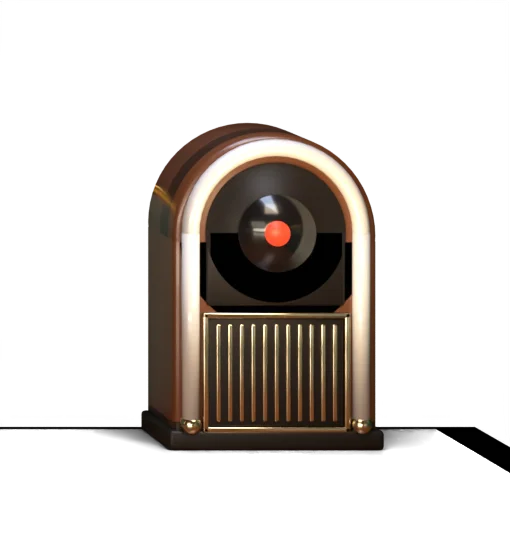
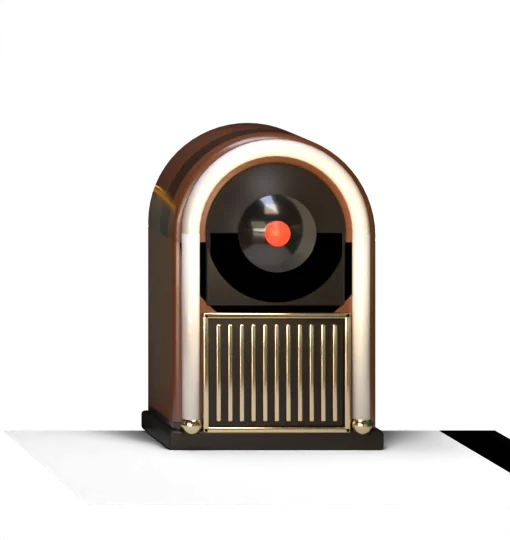
feat(lobby): the bar's real plate, lamp passes, jukebox picture and live glows for the baked look
Also: half the 3D look's draw calls (posters as two draws, the gold frame only
while it shows), shadows that lean from the nearest lit lamp, reflections of
the body only, README, and a look option on the 3D test tools.

diff --git a/lobby/public/baked/room-baked.js b/lobby/public/baked/room-baked.js
@@ -92,6 +92,9 @@ function plateMaterial(plate) {
         vec2 out2 = abs(vUv - 0.5) - 0.5;
         float past = max(out2.x, out2.y);
         sum *= 1.0 - smoothstep(0.0, 0.12, past);
+        // The corners of the room fall away a little, as they do in the hero picture.
+        vec2 c = (uv - vec2(0.5, 0.46)) * vec2(1.0, 1.25);
+        sum *= 1.0 - 0.55 * smoothstep(0.28, 0.75, length(c));
         gl_FragColor = vec4(sum * uExposure, 1.0);
         #include <tonemapping_fragment>
         #include <colorspace_fragment>
@@ -148,14 +151,14 @@ export class RoomBaked extends Room3D {
   /** Once the plate is here: the room's light for the pieces, in place of the 3D look's three plain lights. */
   dressRoom() {
     for (const o of this.scene.children) {
-      if (o.isHemisphereLight) o.intensity = 0.2;
-      else if (o.isDirectionalLight) o.intensity = o.position.y > 8 ? 0 : 0.3; // the overhead lamp goes: each pool has its own now
+      if (o.isHemisphereLight) o.intensity = 0.13;
+      else if (o.isDirectionalLight) o.intensity = o.position.y > 8 ? 0 : 0.2; // the overhead lamp goes: each pool has its own now
     }
     const pmrem = new THREE.PMREMGenerator(this.renderer);
     this.envMap = pmrem.fromEquirectangular(this.plate.env).texture;
     pmrem.dispose();
     this.scene.environment = this.envMap;
-    this.scene.environmentIntensity = 0.4;
+    this.scene.environmentIntensity = 0.3;
   }
 
   build(room) {
@@ -196,8 +199,20 @@ export class RoomBaked extends Room3D {
     if (this.plain) super.doorway(L);
   }
 
+  /** The string of bulbs is in the picture; what is added here is only the soft glow round each, which a camera would see. */
   bulbs() {
-    if (this.plain) super.bulbs();
+    if (this.plain) return super.bulbs();
+    const n = 29;
+    const glows = new THREE.InstancedMesh(new THREE.PlaneGeometry(0.62, 0.62), new THREE.MeshBasicMaterial({ map: this.radial, color: 0xffc27a, transparent: true, opacity: 0.34, blending: THREE.AdditiveBlending, depthWrite: false }), n);
+    const o = new THREE.Object3D();
+    for (let i = 0; i < n; i++) {
+      const t = i / (n - 1);
+      o.position.set((t - 0.5) * (SPACE.w - 0.5), 5.6 + Math.pow(((t * 4) % 1) - 0.5, 2) * 1.25, SPACE.zBack + 0.5);
+      o.updateMatrix();
+      glows.setMatrixAt(i, o.matrix);
+    }
+    glows.renderOrder = -6;
+    this.stuff.add(glows);
   }
 
   /** One game box: its poster in the plate's empty frame, its gold edge, and the light its lamp gives the pieces. */
@@ -221,6 +236,10 @@ export class RoomBaked extends Room3D {
     b.beam.position.set(x, SPACE.lampY / 2, z);
     b.beam.renderOrder = 6;
     this.stuff.add(b.beam);
+    // The glow round a lamp that is on.
+    b.halo = new THREE.Mesh(new THREE.PlaneGeometry(1, 1), new THREE.MeshBasicMaterial({ map: this.radial, color: SKIN.light, transparent: true, opacity: 0, blending: THREE.AdditiveBlending, depthWrite: false }));
+    b.halo.position.set(x, SPACE.lampY + 0.04, z + 0.05);
+    this.stuff.add(b.halo);
 
     // On the wall: the poster as a box in the frame, and the frame's gold face for the box that leads.
     const g = new THREE.Group();
@@ -230,19 +249,27 @@ export class RoomBaked extends Room3D {
     tex.anisotropy = Math.min(8, this.renderer.capabilities.getMaxAnisotropy());
     b.art = new THREE.MeshBasicMaterial({ map: tex });
     b.side = new THREE.MeshBasicMaterial({ color: new THREE.Color(boxSide(box)).multiplyScalar(0.5) });
-    const carton = new THREE.Mesh(new THREE.BoxGeometry(L.bw, L.bh, 0.3), [b.side, b.side, b.side, b.side, b.art, b.side]);
+    // Two draws a poster: the box's sides as one mesh, and its printed front as another.
+    const carton = new THREE.Mesh(new THREE.BoxGeometry(L.bw, L.bh, 0.3), b.side);
     carton.position.z = 0.2;
-    g.add(carton);
+    const front = new THREE.Mesh(new THREE.PlaneGeometry(L.bw, L.bh), b.art);
+    front.position.z = 0.351;
+    g.add(carton, front);
     const [nw, nh] = [L.bw + FRAME.gap * 2, L.bh + FRAME.gap * 2];
     const bar = FRAME.bar;
     b.goldFace = new THREE.MeshBasicMaterial({ color: new THREE.Color(SKIN.accent).multiplyScalar(1.5), transparent: true, opacity: 0, depthWrite: false });
-    for (const [w, h, dx, dy] of [[bar, nh + bar * 2, -nw / 2 - bar / 2, 0], [bar, nh + bar * 2, nw / 2 + bar / 2, 0], [nw, bar, 0, nh / 2 + bar / 2], [nw, bar, 0, -nh / 2 - bar / 2]]) {
-      const face = new THREE.Mesh(new THREE.PlaneGeometry(w, h), b.goldFace);
-      face.position.set(dx, dy, FRAME.depth + 0.002);
-      g.add(face);
-    }
+    const ring = new THREE.Shape();
+    ring.moveTo(-nw / 2 - bar, -nh / 2 - bar).lineTo(nw / 2 + bar, -nh / 2 - bar).lineTo(nw / 2 + bar, nh / 2 + bar).lineTo(-nw / 2 - bar, nh / 2 + bar).closePath();
+    const hole = new THREE.Path();
+    hole.moveTo(-nw / 2, -nh / 2).lineTo(-nw / 2, nh / 2).lineTo(nw / 2, nh / 2).lineTo(nw / 2, -nh / 2).closePath();
+    ring.holes.push(hole);
+    b.goldMesh = new THREE.Mesh(new THREE.ShapeGeometry(ring), b.goldFace);
+    b.goldMesh.position.z = FRAME.depth + 0.002;
+    b.goldMesh.visible = false;
+    g.add(b.goldMesh);
     b.glow = new THREE.Mesh(new THREE.PlaneGeometry(nw + 1.6, nh + 1.6), new THREE.MeshBasicMaterial({ map: this.radial, color: SKIN.accent, transparent: true, opacity: 0, blending: THREE.AdditiveBlending, depthWrite: false }));
     b.glow.position.z = FRAME.depth + 0.004;
+    b.glow.visible = false;
     g.add(b.glow);
     this.stuff.add(g);
     return b;
@@ -253,17 +280,22 @@ export class RoomBaked extends Room3D {
     if (this.plain) return super.light(b);
     const level = b.level;
     const glowing = Math.min(1, level * 8);
-    const gain = (this.plate.info.lampGain ?? 2.83) * (0.5 * glowing + 0.5 * level);
+    const gain = (this.plate.info.lampGain ?? 2.83) * (0.3 * glowing + 0.7 * level);
     const u = this.plateMat.uniforms;
     u.uGain.value[b.i] = gain;
     u.uGold.value[b.i] = b.gold;
-    b.spot.intensity = 5 * (0.5 * glowing + 0.5 * level);
+    b.spot.intensity = 4.6 * (0.3 * glowing + 0.7 * level);
+    b.spot.visible = level > 0.002;
     b.spot.color.set(SKIN.light).lerp(new THREE.Color(SKIN.accent), b.gold * 0.6);
     b.beam.material.uniforms.uStrength.value = 0.05 * glowing + 0.05 * level;
     b.beam.visible = level > 0.002;
+    b.halo.visible = level > 0.002;
+    b.halo.material.opacity = (0.14 + 0.3 * Math.min(level, 1.3)) * glowing;
+    b.halo.scale.setScalar(1.3 + level * 0.9);
     b.art.color.setScalar(0.17 + 0.68 * glowing + 0.2 * b.gold);
     b.goldFace.opacity = b.gold;
     b.glow.material.opacity = 0.45 * b.gold;
+    b.goldMesh.visible = b.glow.visible = b.gold > 0.003;
   }
 
   // ---------------------------------------------------------------- the jukebox, as a picture
@@ -295,6 +327,11 @@ export class RoomBaked extends Room3D {
     picture.position.set((l + r) / 2 - group.position.x, (t + bt) / 2, 0);
     picture.renderOrder = -5;
     group.add(picture);
+    // Its solid part also takes its place in depth, so what passes behind it (the cat, along the foot of the wall) is hidden by it.
+    const solid = new THREE.Mesh(picture.geometry, new THREE.MeshBasicMaterial({ map: this.plate.juke, alphaTest: 0.6, colorWrite: false }));
+    solid.position.copy(picture.position);
+    solid.renderOrder = -4;
+    group.add(solid);
     this.juke = { group, picture };
   }
 
@@ -337,16 +374,20 @@ export class RoomBaked extends Room3D {
       // The shadow: short and dark right under a lamp, longer and leaning away from it further out, faint in the dark.
       const lamp = this.lampOver(p.rx);
       const away = lamp.lit > 0 ? Math.max(-1, Math.min(1, (p.rx - lamp.x) / (this.half + 60))) : 0;
-      pawn.blob.position.x += away * 0.16;
-      pawn.blob.scale.x *= 1 + Math.abs(away) * 0.5;
-      pawn.blob.material.opacity *= 0.62 + 0.38 * lamp.lit;
+      pawn.blob.position.x += away * 0.2;
+      pawn.blob.scale.multiplyScalar(1.3);
+      pawn.blob.scale.x *= 1 + Math.abs(away) * 0.6;
+      pawn.blob.material.opacity = Math.min(1, pawn.blob.material.opacity * (1.0 + 0.8 * lamp.lit));
 
       // The reflection: the same piece, standing on its head under the floor.
       let r = pawn.reflection;
       if (!r) {
+        // Only the body is mirrored: a floor this soft does not hold a pair of eyes.
         r = pawn.reflection = pawn.group.clone();
         r.traverse((o) => {
           if (!o.isMesh) return;
+          o.visible = o.material === pawn.mat;
+          if (!o.visible) return;
           o.material = o.material.clone();
           Object.assign(o.material, { transparent: true, depthWrite: false, side: THREE.DoubleSide });
           o.renderOrder = -2;
@@ -360,17 +401,13 @@ export class RoomBaked extends Room3D {
       mt.rotation.copy(tilt.rotation);
       mt.scale.copy(tilt.scale);
       mturn.rotation.copy(turn.rotation);
-      const shine = (0.1 + 0.16 * lamp.lit) * pawn.fade * Math.max(0, 1 - pawn.group.position.y * 0.9);
-      turn.children.forEach((mesh, i) => {
-        const m = mturn.children[i];
-        m.visible = mesh.visible;
-        m.material.color?.copy(mesh.material.color);
-        m.material.opacity = shine;
-      });
+      const body = mturn.children[0];
+      body.material.color.copy(pawn.mat.color);
+      body.material.opacity = (0.07 + 0.13 * lamp.lit) * pawn.fade * Math.max(0, 1 - pawn.group.position.y * 0.9);
     }
     for (const r of [...this.mirror.children]) {
       if ([...seen].some((pawn) => pawn.reflection === r)) continue;
-      r.traverse((o) => o.isMesh && o.material.dispose());
+      r.traverse((o) => o.isMesh && o.visible && o.material.dispose());
       this.mirror.remove(r);
     }
   }
@@ -381,7 +418,7 @@ export class RoomBaked extends Room3D {
 
   destroy() {
     this.scene.onBeforeRender = () => {};
-    this.mirror.traverse((o) => o.isMesh && o.material.dispose());
+    this.mirror.traverse((o) => o.isMesh && o.visible && o.material.dispose());
     this.envMap?.dispose();
     for (const t of [this.plate?.base, this.plate?.env, this.plate?.juke, ...(this.plate?.lamps ?? [])]) t?.dispose();
     super.destroy();

diff --git a/landing/tools/blender/room.py b/landing/tools/blender/room.py
@@ -833,10 +833,13 @@ if PASS == "juke":
     # The jukebox under the Tonight board, alone: the room is kept only to catch its shadow and
     # to be seen in its chrome. The live room stands this picture in the plate and rocks it.
     for o in list(bpy.data.objects):
-        if o.type == "MESH" and o.name == "floor":
-            o.is_shadow_catcher = True
-        elif o.type == "MESH":
+        if o.type == "MESH":
             o.visible_camera = False
+    # Only the floor right in front of the jukebox catches its shadow (the wall behind it shades the rest).
+    bpy.ops.mesh.primitive_plane_add(size=1, location=G(JUKE_X, 0.002, -2.5 + 0.95))
+    catcher = bpy.context.object
+    catcher.scale = (2.6, 1.7, 1)
+    catcher.is_shadow_catcher = True
     wood = boards("juke wood", rgb("#7a4424"), rgb("#4a2814"), board=4, along="Z", rough=0.35, coat=0.7, grain=0.7)
     dark = principled("juke dark", rgb("#120a07"), rough=0.5)
     chrome = principled("juke chrome", rgb("#d8c9a8"), rough=0.18, metal=1.0)

diff --git a/lobby/README.md b/lobby/README.md
@@ -40,13 +40,14 @@ For phones on the same network, `npm run dev:lan` prints the address to open; th
 Stills of the main states, from a real run, are in [`shots/`](shots/).
 The ones whose names start with `f` are from `npm run test:feel`: the bump moment by moment (wind-up, hit, thrown, on the floor, up and safe), the buttons and the cooldown ring, the board opened large, and the way in on a phone.
 
-## The two drawings
+## The three drawings
 
-The room is drawn twice, from the same room state, rules and controls.
-Both are a "room view" (`public/room-view.js`), which is all the page knows about a drawing.
+The room is drawn three ways, from the same room state, rules and controls.
+Each is a "room view" (`public/room-view.js`), which is all the page knows about a drawing.
 
 - **Flat** (`public/scene.js`): one SVG of plain shapes. It is the default.
 - **3D** (`public/look3d/`): a three.js scene in the look of the approved stills, with every word laid over it as HTML. It is a preview until the owner approves it.
+- **Baked** (`public/baked/`): the bar as a rendered picture, with the pieces drawn live over it. It is a preview too, and is described under "The baked look" below.
 
 To see the 3D look, add `?look=3d` to the room's address, for example `http://localhost:8791/lobby/?start&look=3d`.
 The choice is remembered on that device, because the room's own address carries no query and a phone that scans the code on the wall arrives without one; `?look=flat` goes back.
@@ -93,6 +94,31 @@ The bump is the shared one (`shared/bump.js`): the 3D look draws the same states
 The bumper winds up and slams forward; whoever it hits is squashed, thrown, lies on the floor with crosses for eyes, gets up and flickers while it cannot be knocked again.
 There is a burst of sparks where the blow lands, dust where the piece comes down, a small jolt of the picture, and a ring under your own piece that fills as your bump recharges.
 The 3D wall follows the flat one: a game's name is on its box and nowhere else, the sign under it says one thing about the game, how many play and on what, and the Tonight board opens when it is tapped.
+
+### The baked look
+
+To see it, add `?look=baked` to the room's address, for example `http://localhost:8791/lobby/?start&look=baked`.
+The choice is remembered on that device like the 3D look's; `?look=flat` goes back.
+It is the bar only, and only on today's wall of five boxes.
+
+The 3D look's camera never moves, so the room does not have to be drawn every frame: it can be one picture.
+The baked look's room is a Cycles render from that same camera, made by the script that renders the landing page's hero (`landing/tools/blender/room.py`, the shots named `plate-*`).
+Only what changes is drawn live:
+
+- **The lamps.** The plate is a base picture with no game lamp on, and one more picture per lamp of only what that lamp adds: its bulb, its beam in the haze, its pool on the floor and what bounces off it. Light adds up, so a small shader adds them with one number per lamp, and any combination of lamps on, off and brighter is right without another render. A box that leads tints its lamp's light gold and gets a gold face on its frame.
+- **The posters, signs, join code and Tonight board.** They are data, so the plate's frames are empty and the live ones sit in them, placed by the same layout as the 3D look (`look3d/space.js`).
+- **The pieces.** Each pool has a real cone of light for whoever stands in it, the room itself (rendered all round from where the pieces stand) is what shines in their lacquer, a piece's shadow leans away from the nearest lit lamp, and a faint reflection stands under it in the floor.
+- **The room's life.** The dust, the cat and the moth are the 3D look's, drawn over the plate. The jukebox is a rendered picture standing in the 3D look's jukebox, so it still rocks and flashes when it is knocked, with its running lights live over the rendered tubes.
+
+It is built as the 3D look with its walls swapped for a picture (`RoomBaked extends Room3D`), and it calls `look3d/pieces.js` for every pose, so a change to how a piece moves or is bumped arrives in both.
+What it gives up: the lamps are in the picture, so a jump under one does not set it swinging.
+
+A wall with another number of boxes (the local environment hangs Coin Flip as a sixth) is drawn by the 3D look as it stands, and so is the room on a device where the plate does not arrive.
+To see the baked look locally, start the server with production's wall: `npx wrangler dev --local --env local --port 8791 --var PARTY_TEST_GAMES:off`.
+A device that did not ask for it downloads none of it.
+
+To make the plate again: `landing/tools/blender/plate.sh` (about 45 minutes of rendering, every job under ten), then `node lobby/tools/pack-baked.mjs`, which writes `public/baked/bar/` and prints the bytes.
+The raw renders are not committed.
 
 ## What is built
 
@@ -272,6 +298,8 @@ A lobby nobody touches costs nothing: no timer, no messages, nothing counted, an
 | `games/coin-flip.js` | The test game, hung only where `PARTY_TEST_GAMES` is on. |
 | `wall.js` | Which boxes hang on the wall (hosted, outside, test, coming soon), which can start, and the wall each environment gets. |
 | `public/room-view.js` | The seam between the page and a drawing of the room: the interface both drawings keep, and which one a device gets. |
+| `public/baked/` | The baked drawing: `room-baked.js`, and the bar's packed plate in `bar/` (`plate.json` says what it covers). |
+| `tools/pack-baked.mjs` | Packs the rendered plate for the baked look. |
 | `public/look3d/` | The 3D drawing: the scene (`room3d.js`), the words over it (`words.js`), the pieces (`pieces.js`), the rooms as skins (`skins.js`), a posed room (`still.html`) and the rooms page (`rooms/`). |
 | `test/` | Unit tests, the socket test, the browser run and the cost measurement. |
 
